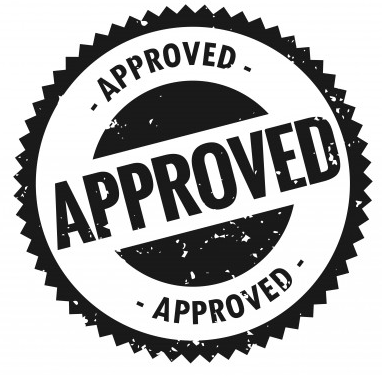
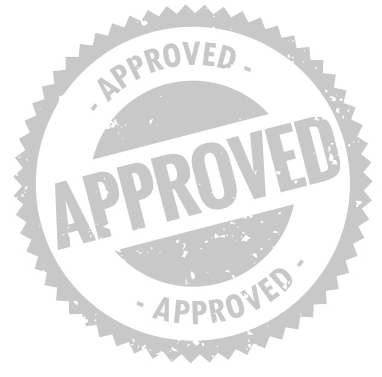
u

diff --git a/Bytes/templates/ticket.html b/Bytes/templates/ticket.html
@@ -7,50 +7,62 @@
 
 </head>
 <style>
-    .ticket{
-    width: 65vw;
-    height: 50vh;
-    color: black;
     
+    .ticket{
+    width: 80vw;
+    height: max-content;
+    color: black;
     /* background-color: whitesmoke; */
     padding: 0;
+    margin: 7%;
 }
 #details{
     background-image: url(stamp.png);
     background-size:contain;
-    opacity: 0.3;
+    /* opacity: 0.3; */
+    display: flex;
+    flex-direction: row;
     z-index: 22;
+    /* width: 100%; */
     padding: 4%;
 }
 .gaps{
-    height: 17%;
+    height: max-content;
     background-color: black;
-    width: 100%;
+    padding: 2%;
+    /* width: 100%; */
 }
 </style>
 <body>
     
     <div class="ticket">
+        
         <div class="gaps">
-
+            <h1 style="color: white;">Handy-Manny Metro</h1>
         </div>
-        <div id="details">
-            <div style="opacity: 5; color: black;">
+        <center>
+        <div id="details" >
+            <div style=" float: left; width: 35vw; ">
             <h3>Name:</h3>
-            <h3>Number of seats booked:</h3>
+            <h3>Seats booked:</h3>
             <h3>Name of Train:</h3>
             <h3>Starting Place</h3>
             <h3>Destination:</h3>
             
             </div>
+            <div style="margin-left: 20%; text-align: right; ">
+                <h3>arnav</h3>
+                <h3>3</h3>
+                <h3>some</h3>
+                <h3>bleh</h3>
+                <h3>dddd</h3>
+                
+            </div>
             <div>
-                <h3></h3>
-                <h3></h3>
-                <h3></h3>
-                <h3></h3>
-                <h3></h3>
+                <img style="width: 70%;" src="train.png" alt="can't load img">
             </div>
         </div>
+    </center>
     </div>
 
 </body>

diff --git a/Bytes/templates/index.htm b/Bytes/templates/index.htm
@@ -106,7 +106,8 @@
 {%endif%}
 <div id="video">
     <center>
-    <iframe width="860" height="515" src="https://www.youtube.com/embed/V9-GXFOAfck" frameborder="0" allow="accelerometer; autoplay; encrypted-media; gyroscope; picture-in-picture" allowfullscreen></iframe>
+        <h1 style="font-size: 330%;">Motion Design</h1>
+    <iframe style="margin-top: 5%;" width="860" height="515" src="https://www.youtube.com/embed/V9-GXFOAfck" frameborder="0" allow="accelerometer; autoplay; encrypted-media; gyroscope; picture-in-picture" allowfullscreen></iframe>
 </center>
 </div>
 <div id="footer">
